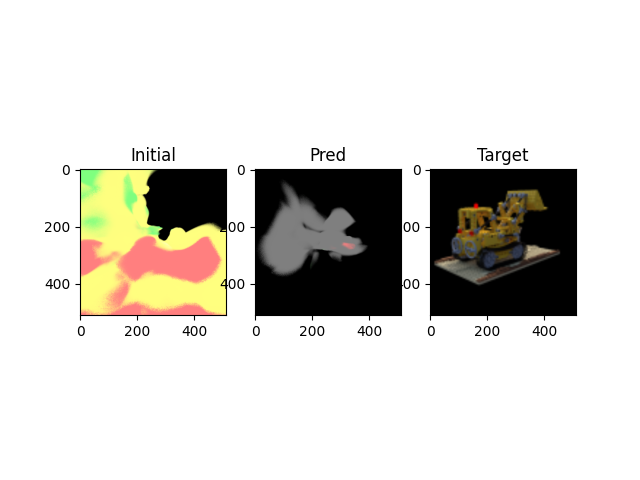
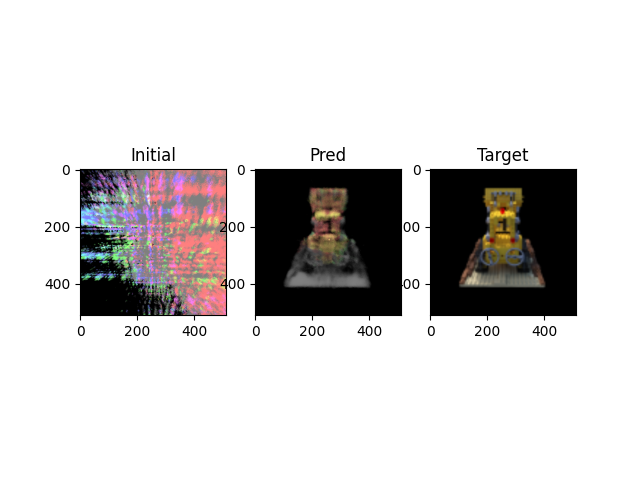
added encoded view direction

Changed region(s): [[0.125, 0.3438, 0.375, 0.6562], [0.6562, 0.375, 0.875, 0.625], [0.4062, 0.375, 0.5938, 0.625]]

diff --git a/image_model.py b/image_model.py
@@ -22,7 +22,7 @@ m = slangpy.loadModule('image-model.slang',
                             'WARP_SIZE': 32})
 N_samples = 32
 class RenderImage(torch.autograd.Function):
-    def forward(ctx, width, height, feature_grid, *args):
+    def forward(ctx, width, height, feature_grid, viewdirs, *args):
         weights = args[0: 3]
         biases = args[3: 6]
         #output = torch.zeros((width, height, 3), dtype=torch.float).cuda()
@@ -36,20 +36,21 @@ class RenderImage(torch.autograd.Function):
                     (height + blockSize[1] - 1) // blockSize[1], 
                     (N_samples + blockSize[2] - 1) // blockSize[2])
 
-        m.renderImage(mlp=mlp, featureGrid=feature_grid, imageOutput=output).launchRaw(blockSize=blockSize, gridSize=gridSize)
+        m.renderImage(mlp=mlp, featureGrid=feature_grid, viewDir = viewdirs, imageOutput=output).launchRaw(blockSize=blockSize, gridSize=gridSize)
 
-        ctx.save_for_backward(output, feature_grid, *args)
+        ctx.save_for_backward(output, feature_grid, viewdirs, *args)
 
         return output
     
     def backward(ctx, grad_output):
-        output, feature_grid, *args = ctx.saved_tensors
+        output, feature_grid, viewdir, *args = ctx.saved_tensors
         weights = args[0: 3]
         biases = args[3: 6]
 
         weights_d = [torch.zeros_like(w) for w in weights]
         biases_d = [torch.zeros_like(b) for b in biases]
         feature_grid_d = torch.zeros_like(feature_grid)
+        viewdir_d = torch.zeros_like(viewdir)
 
         width, height, _, _ = output.shape
         
@@ -61,6 +62,6 @@ class RenderImage(torch.autograd.Function):
                     (height + blockSize[1] - 1) // blockSize[1], 
                     (N_samples + blockSize[2] - 1) // blockSize[2])
 
-        m.renderImage.bwd(mlp=mlp, featureGrid=(feature_grid, feature_grid_d), imageOutput=(output, grad_output)).launchRaw(blockSize=blockSize, gridSize=gridSize)
+        m.renderImage.bwd(mlp=mlp, featureGrid=(feature_grid, feature_grid_d), viewDir=(viewdir, viewdir_d), imageOutput=(output, grad_output)).launchRaw(blockSize=blockSize, gridSize=gridSize)
 
-        return None, None, feature_grid_d, *weights_d, *biases_d
+        return None, None, feature_grid_d, None,  *weights_d, *biases_d

diff --git a/run_nerf.py b/run_nerf.py
@@ -23,7 +23,7 @@ height = 512
 N_samples = 32
 
 os.environ["KMP_DUPLICATE_LIB_OK"] = "TRUE"
-C = 16
+C = 32
 torch.manual_seed(0)
 I = torch.diag(torch.ones(C, dtype=torch.float)).cuda().contiguous()
 w1 = torch.randn((C, C), dtype=torch.float, requires_grad=True, device='cuda:0')
@@ -35,31 +35,25 @@ b2 = torch.zeros(C, dtype=torch.float, requires_grad=True, device='cuda:0')
 b3 = torch.zeros(C, dtype=torch.float, requires_grad=True, device='cuda:0')
 
 dataset = Dataset()
-# img_i = 0 #img_i = np.random.randint(100)
-# x, z_vals, target_image = dataset.get_data(img_i)
-# feature_grid = torch.randn((width, height, N_samples, 16), 
-#                            dtype=torch.float, requires_grad=True, device='cuda:0')
-
 optimizer = torch.optim.Adam([w1, w2, w3, b1, b2, b3], lr=1e-2)
 loss_fn = torch.nn.MSELoss()
 
 intermediate_images = []
-iterations = 1000
+iterations = 2000
 
 import time
 start = time.time()
 
 for i in range(iterations):
-    img_i = 0 
-    #img_i = np.random.randint(100)
-    x, z_vals, target_image = dataset.get_data(img_i)
+    img_i = 0 #img_i = np.random.randint(100)
+    x, z_vals, target_image, viewdirs = dataset.get_data(img_i)
     encoded_x = embed_fn(x)
+    encoded_viewdirs = embed_fn(viewdirs)
     y_pred = RenderImage.apply(
         width, height,
-        encoded_x, 
+        encoded_x, encoded_viewdirs,
         w1, w2, w3,
         b1, b2, b3)
-
     y_pred = rendering(y_pred, z_vals)
     loss = loss_fn(y_pred, target_image)
     

diff --git a/sampling.py b/sampling.py
@@ -35,7 +35,7 @@ class Dataset():
         pose = torch.tensor(self.poses[img_i], dtype=torch.float32, device=self.device)
         focal = torch.tensor(self.focal, dtype=torch.float32, device=self.device).clone().detach()
         rays_o, rays_d = self.get_rays(self.H, self.W, focal, pose, self.device)
-        
+        viewdirs = rays_d / torch.norm(rays_d, p=2, dim=-1, keepdim=True)
         z_vals = torch.linspace(self.near, self.far, self.N_samples, 
                                 device=rays_o.device).expand(rays_o.shape[:-1] + (self.N_samples,))
         z_vals = z_vals.clone()
@@ -43,4 +43,4 @@ class Dataset():
                             device=rays_o.device) * (self.far - self.near) / self.N_samples
         pts = rays_o[..., None, :] + rays_d[..., None, :] * z_vals[..., :, None]
         pts = pts.reshape(self.H,self.W, self.N_samples, 3)
-        return pts, z_vals, target_image
+        return pts, z_vals, target_image, viewdirs

diff --git a/encoding.py b/encoding.py
@@ -1,6 +1,6 @@
 import torch
 
-def embed_fn(x, L_embed = 2):
+def embed_fn(x, L_embed = 5):
     rets = [x]
     for i in range(L_embed):
         for fn in [torch.sin, torch.cos]:
